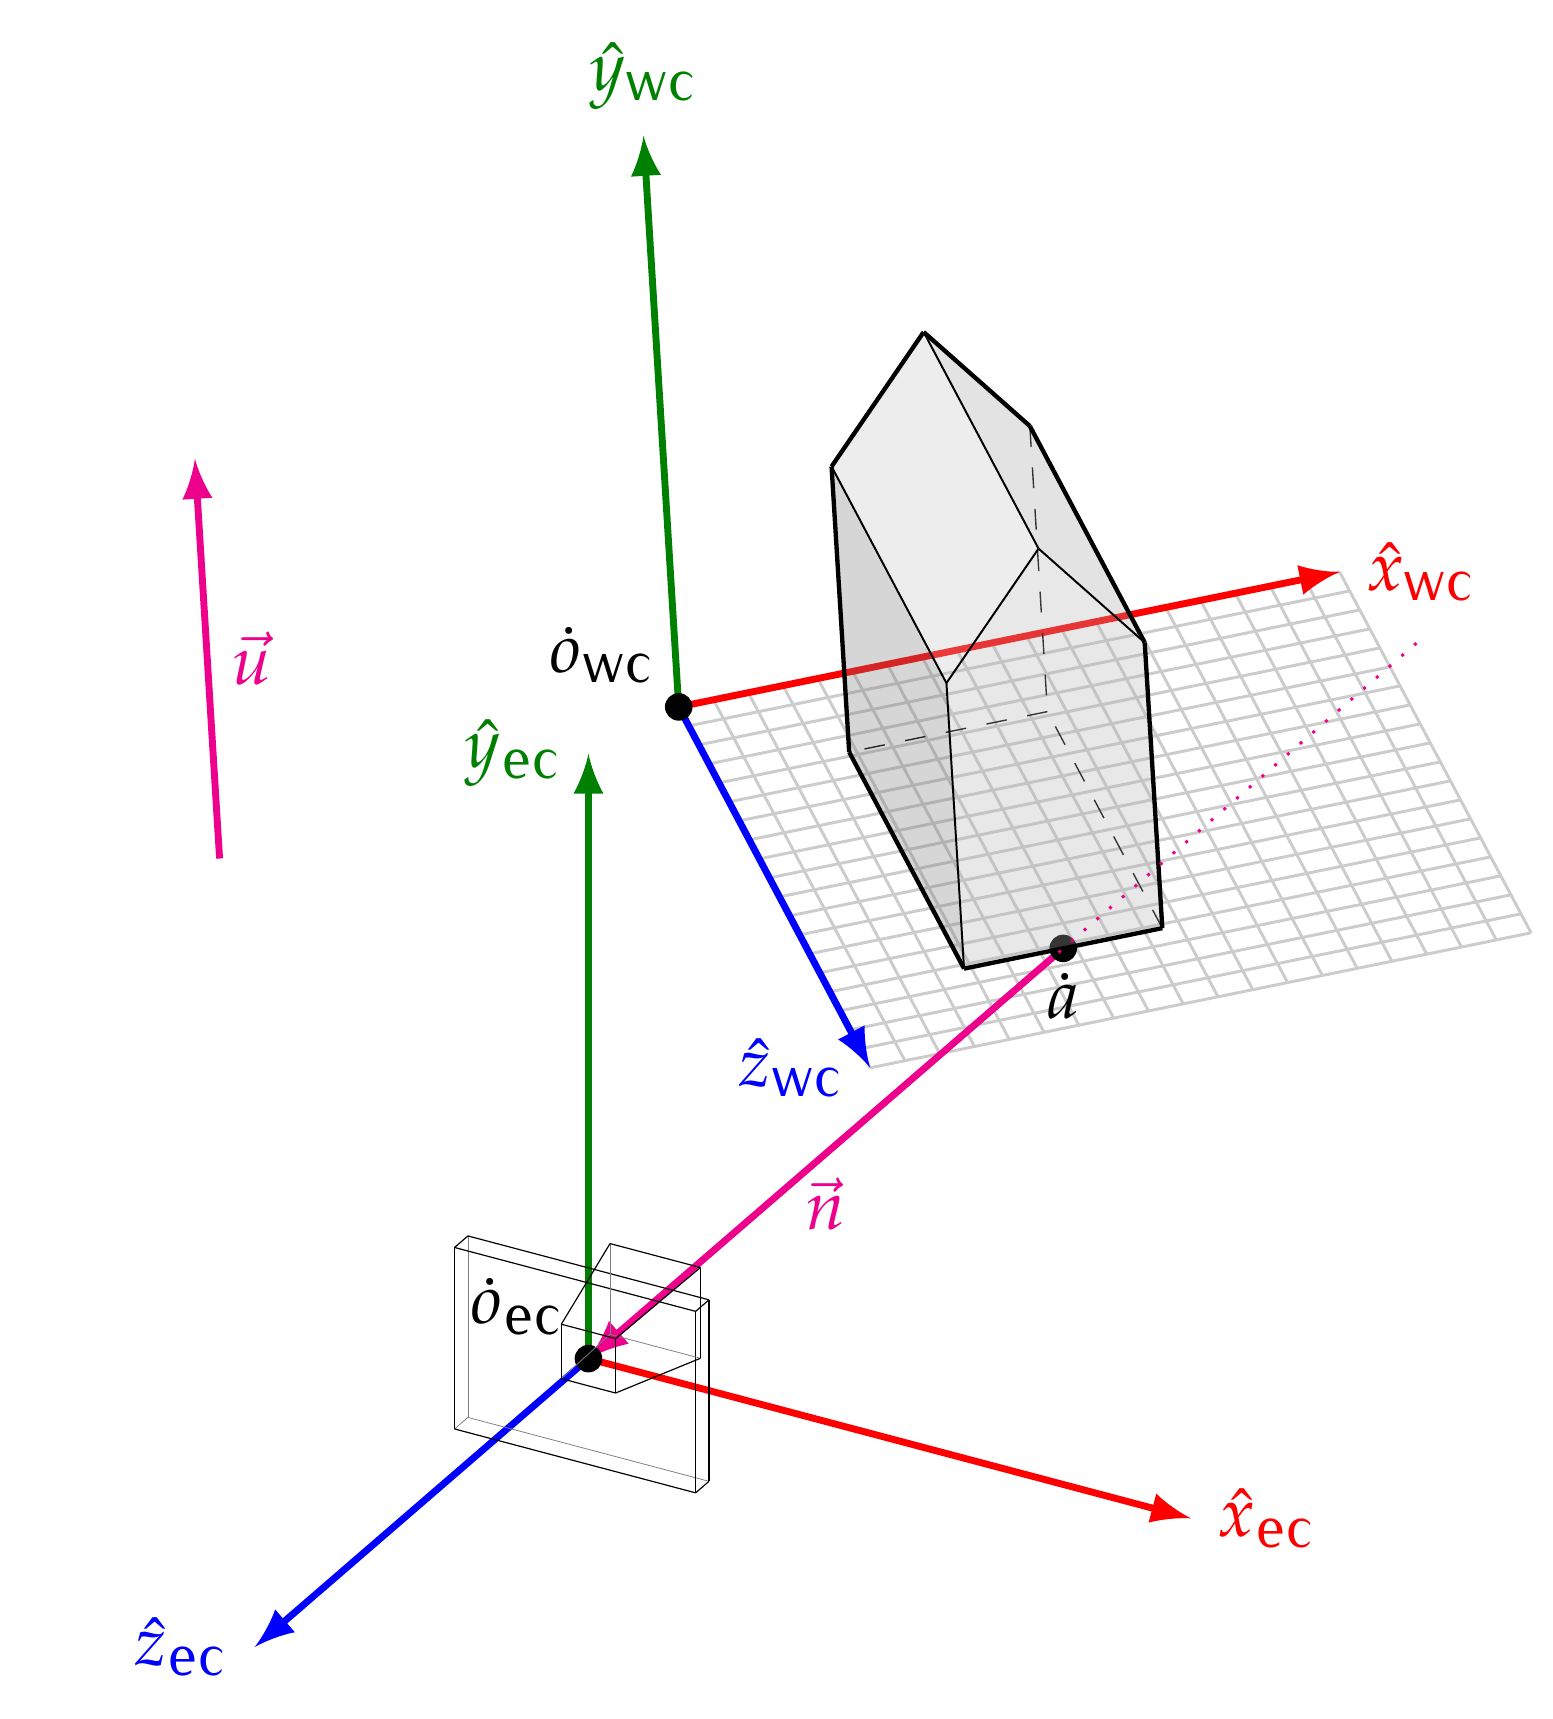
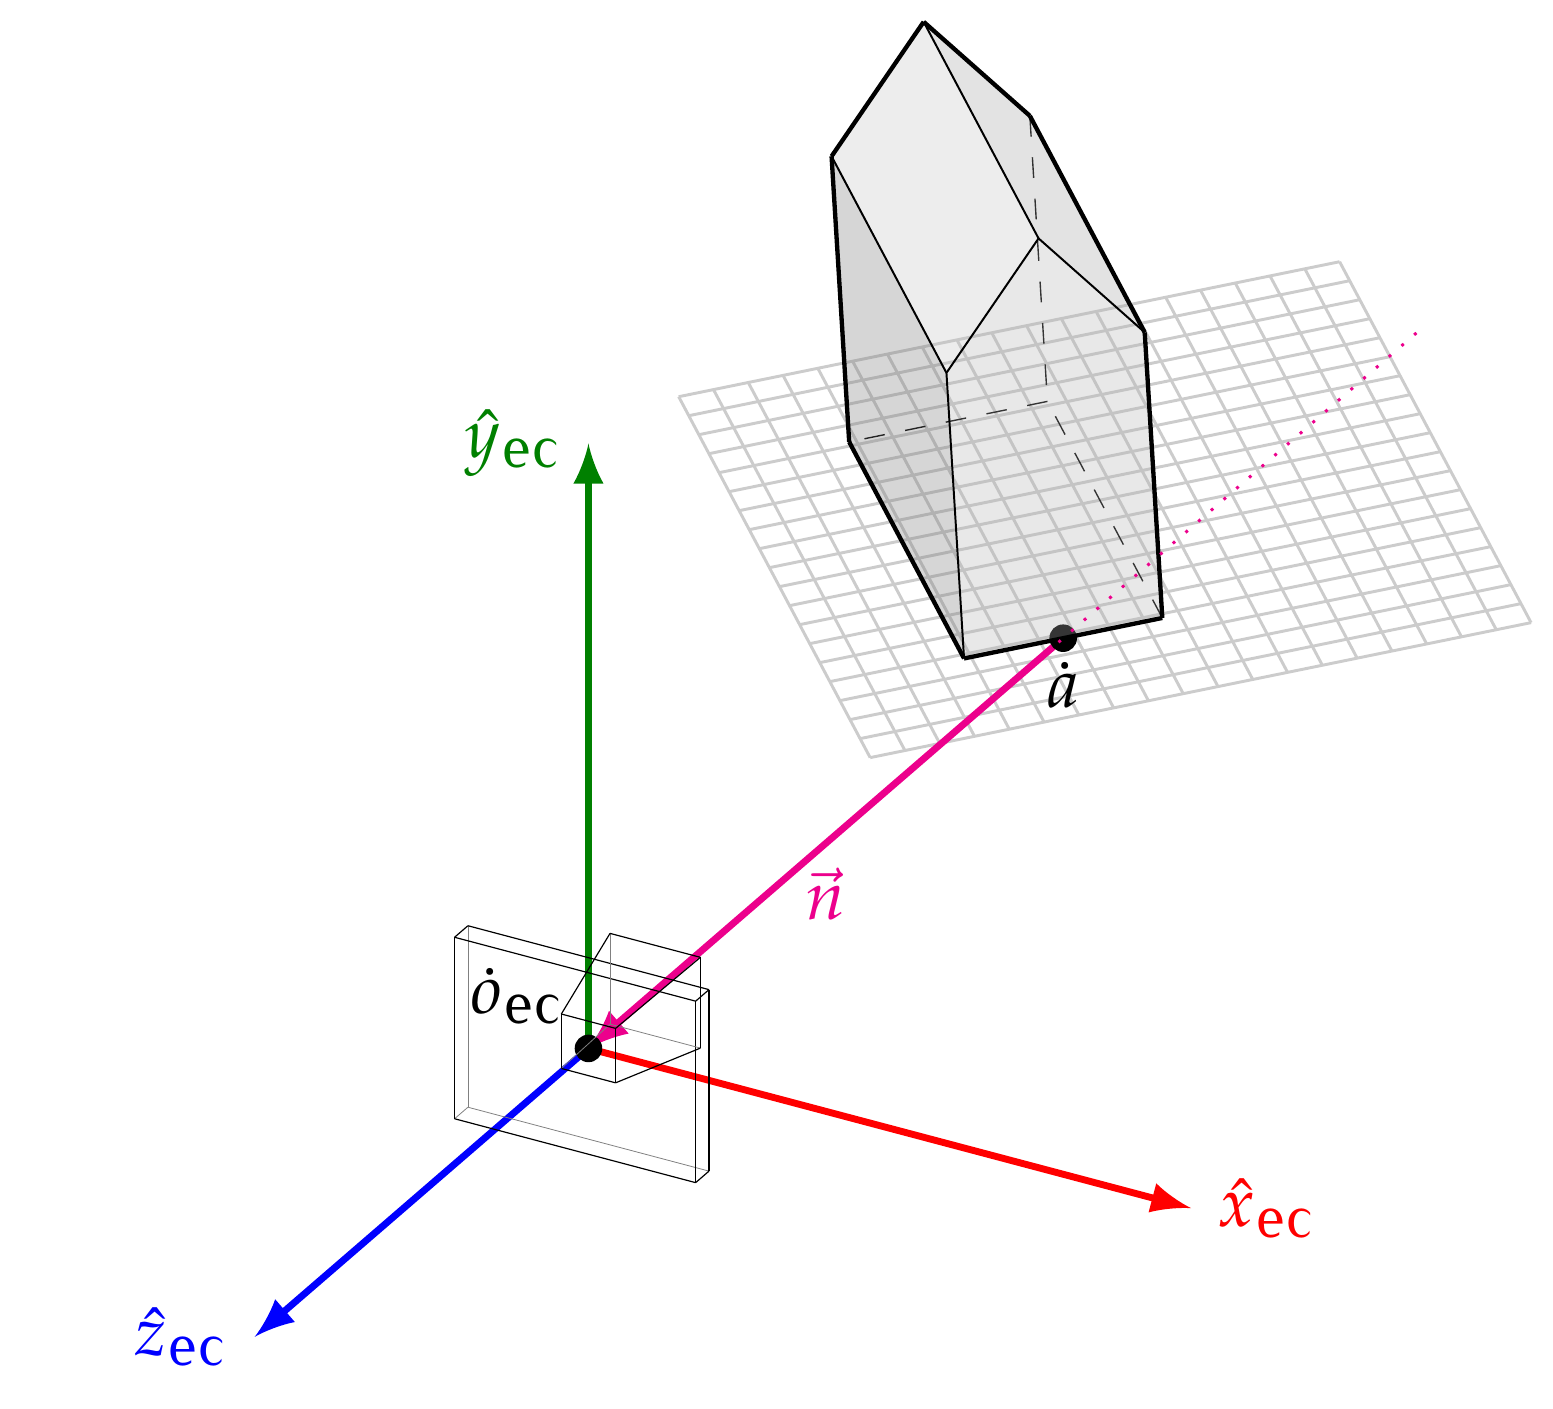
minor update to fig 14

diff --git a/src/fig14-matriz-vista-2.cpp b/src/fig14-matriz-vista-2.cpp
@@ -121,10 +121,6 @@ int main( int argc, char *argv[] )
       line( p0, p1, "color=white!80!black,line width=0.15mm","");
    }
 
-   // draw a small camera at ECC frame origin
-
-
-
    // draw n vector and label 
    line( at_ec, at_ec + n_ec, "->,>=latex,color=magenta,line width=0.35mm", " ");
    const Vec3 pos_ec = at_ec + 0.5f*n_ec ;
@@ -132,23 +128,23 @@ int main( int argc, char *argv[] )
    // draw at point 
    disk( at_ec, "black", "radius=0.2mm", " node[below] {$\\pta$}" ); 
 
-   // draw u vector and label
+   // draw u vector and label (removed)
    
-   line( uo_ec, uo_ec+u_ec, "->,>=latex,color=magenta,line width=0.35mm", " ");
-   const Vec3 posu_ec = uo_ec + 0.5f*u_ec ;
-   cout << "\\path " << posu_ec << " node[right] {\\color{magenta}$\\flu$};" << endl ;
+   // line( uo_ec, uo_ec+u_ec, "->,>=latex,color=magenta,line width=0.35mm", " ");
+   // const Vec3 posu_ec = uo_ec + 0.5f*u_ec ;
+   // cout << "\\path " << posu_ec << " node[right] {\\color{magenta}$\\flu$};" << endl ;
    
 
    // settings for the axes
    std::string subscript = "{\\small\\mbox{wc}}" ;
    std::string lw = "line width=0.35mm" ;
 
-   // draw WCC frame
+   // draw WCC frame (removed)
 
-   line( o_wc, o_wc+x_wc, "->,>=latex,color=red," +lw, "node[right] {$\\vux_" + subscript + "$}" );
-   line( o_wc, o_wc+y_wc, "->,>=latex,color=green!50!black," +lw , "node[above] {$\\vuy_" + subscript + "$}" );
-   line( o_wc, o_wc+z_wc, "->,>=latex,color=blue," +lw , "node[left] {$\\vuz_" + subscript + "$}" );
-   disk( o_wc, "black", "radius=0.2mm", " node[above left] {$\\pto_" + subscript + "$}" );
+   // line( o_wc, o_wc+x_wc, "->,>=latex,color=red," +lw, "node[right] {$\\vux_" + subscript + "$}" );
+   // line( o_wc, o_wc+y_wc, "->,>=latex,color=green!50!black," +lw , "node[above] {$\\vuy_" + subscript + "$}" );
+   // line( o_wc, o_wc+z_wc, "->,>=latex,color=blue," +lw , "node[left] {$\\vuz_" + subscript + "$}" );
+   // disk( o_wc, "black", "radius=0.2mm", " node[above left] {$\\pto_" + subscript + "$}" );
 
    // draw house ...
    casita.draw_style_1( view_vec );
